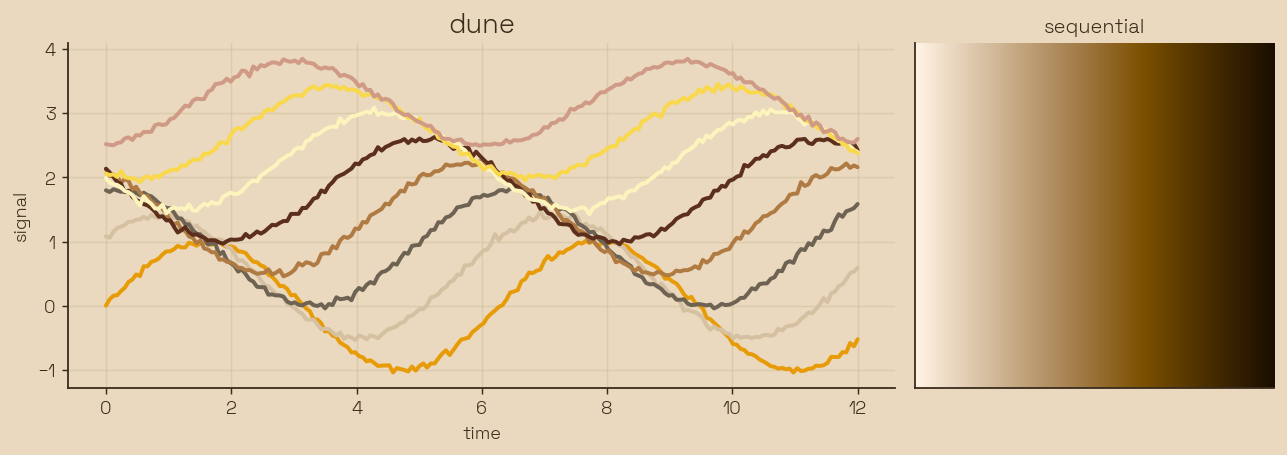
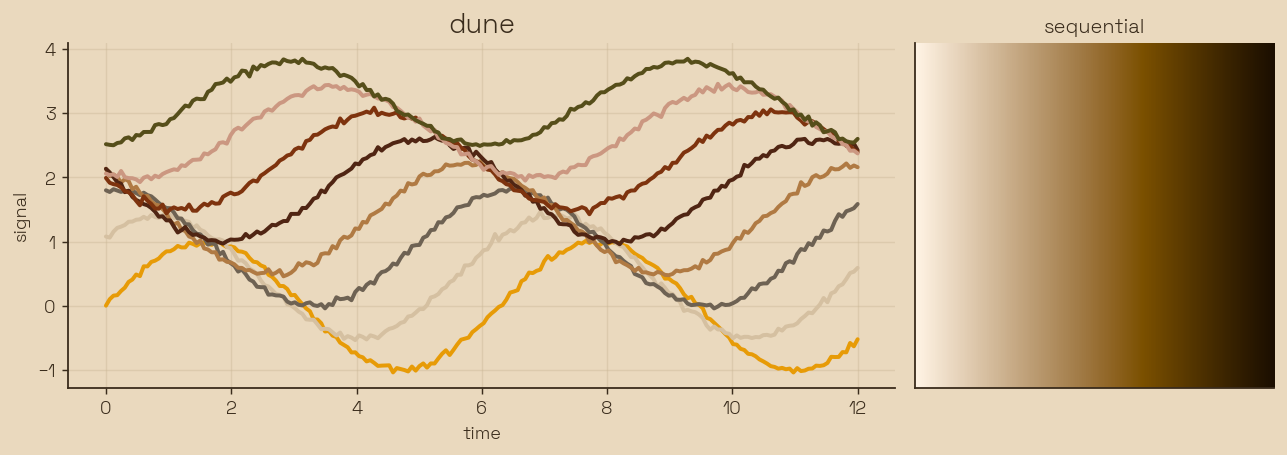
feat: add Sin City, Akira and The Fall themes
Three more sourced themes (palettes pixel-sampled from canonical stills, see docs/research/06): sin_city (B&W chiaroscuro + red/yellow spot color), akira (Kaneda red over Neo-Tokyo neon, with glow), the_fall (Tarsem's hyper-saturated jewel tones on parchment). Two engine fixes they motivated, applied to all themes: drop hue-midpoint candidates (a red+purple palette's arithmetic midpoint lands on off-mood green), and constrain extension colors to a lightness band that stays visible against the theme's own surface. 13 themes total.

diff --git a/cinestyle/registry.py b/cinestyle/registry.py
@@ -220,6 +220,55 @@ _THEME_LIST: list[Theme] = [
         film="In the Mood for Love (Wong Kar-wai)",
         note="Smoldering reds/golds against cool green; color-hex 1061098.",
     ),
+    Theme(
+        name="sin_city",
+        heroes=("#E4241C", "#F9DF28", "#97989A", "#7F7E7C", "#F6F5D7", "#000000"),
+        cycle_length=5,
+        background="#070707",
+        surface="#121212",
+        foreground="#EDEDED",
+        muted="#2A2A2A",
+        grid=False,
+        font_family="Anton",
+        seq_anchor="#E4241C",
+        div_pair=("#F9DF28", "#E4241C"),
+        look="noir_contrast",
+        film="Sin City (Rodriguez/Miller, 2005)",
+        note="B&W chiaroscuro plus red/yellow spot color; Movies In Color.",
+    ),
+    Theme(
+        name="akira",
+        heroes=("#EE272A", "#5D4E6D", "#9890A8"),
+        cycle_length=6,
+        background="#0B0610",
+        surface="#140C18",
+        foreground="#E6E2EC",
+        muted="#2D2440",
+        grid=True,
+        font_family="Orbitron",
+        glow=0.55,
+        seq_anchor="#EE272A",
+        div_pair=("#5D4E6D", "#EE272A"),
+        look="neon_night",
+        film="Akira (Otomo, 1988)",
+        note="Kaneda red over cold Neo-Tokyo night; sampled from canonical stills.",
+    ),
+    Theme(
+        name="the_fall",
+        heroes=("#D3A201", "#D81B2B", "#1C4C8C", "#6F4B29"),
+        cycle_length=6,
+        background="#F1E2BE",
+        surface="#EFDDB4",
+        foreground="#3A2410",
+        muted="#C9B488",
+        grid=True,
+        font_family="EB Garamond",
+        seq_anchor="#C8951A",
+        div_pair=("#1C4C8C", "#D81B2B"),
+        look="warm_amber",
+        film="The Fall (Tarsem, 2006)",
+        note="Hyper-saturated jewel tones on parchment; from Movies In Color.",
+    ),
 ]
 
 THEMES: dict[str, Theme] = {theme.name: theme for theme in _THEME_LIST}

diff --git a/cinestyle/color.py b/cinestyle/color.py
@@ -65,6 +65,11 @@ def _oklab_coords(color: Color) -> tuple[float, float, float]:
     return float(lab["lightness"]), float(lab["a"]), float(lab["b"])
 
 
+def lightness(color: str | Color) -> float:
+    """Return the OKLCH lightness (0..1) of *color*."""
+    return _oklch(color)[0]
+
+
 def delta_e2000(color1: str | Color, color2: str | Color) -> float:
     """Perceptual CIEDE2000 difference between two colors (0 == identical)."""
     return float(Color(color1).delta_e(Color(color2), method="2000"))
@@ -136,16 +141,16 @@ def categorical_cycle(
     # Candidate hues stay within the heroes' own hue family (a window around each
     # hero hue, plus midpoints between them) so additions keep the film's mood.
     # For a single-hue theme this means extensions separate by lightness alone.
+    # Candidate hues are sampled only in a window around each hero hue. We do NOT
+    # add midpoints between heroes: when hero hues straddle a wide gap (e.g. a
+    # red-and-purple palette), the arithmetic midpoint lands on a third,
+    # off-mood hue (green), which breaks the film's identity.
     hero_hues = [p[2] for p in profiles]
     window = 22.0
     hues: set[float] = set()
     for hue in hero_hues:
         for offset in np.linspace(-window, window, 5):
             hues.add(round((hue + offset) % 360.0, 2))
-    unique_hues = sorted({round(h, 1) for h in hero_hues})
-    for i in range(len(unique_hues)):
-        nxt = unique_hues[(i + 1) % len(unique_hues)]
-        hues.add(round(((unique_hues[i] + nxt) / 2.0) % 360.0, 2))
 
     candidates: list[Color] = []
     for light in np.linspace(lo_l, hi_l, 9):

diff --git a/cinestyle/theme.py b/cinestyle/theme.py
@@ -83,7 +83,16 @@ class Theme(RcStyle):
         """
         if self.palette_override is not None:
             return list(self.palette_override)
-        return _color.categorical_cycle(self.heroes, self.cycle_length)
+        # Constrain *added* colors to a lightness band that stays visible against
+        # the theme's surface (the sourced heroes are always kept verbatim): on a
+        # dark theme keep extensions clearly lighter than the background, and the
+        # reverse on a light theme.
+        surface_l = _color.lightness(self.surface)
+        if surface_l < 0.5:
+            band = (max(0.42, surface_l + 0.2), 0.9)  # lighter than a dark surface
+        else:
+            band = (0.32, min(0.72, surface_l - 0.1))  # darker than a light surface
+        return _color.categorical_cycle(self.heroes, self.cycle_length, lightness=band)
 
     @property
     def primary(self) -> str:

diff --git a/tests/test_themes.py b/tests/test_themes.py
@@ -16,11 +16,12 @@ def _hex(color: object) -> str:
     return to_hex(color)
 
 
-def test_ten_themes_in_catalog() -> None:
+def test_catalog_themes() -> None:
     names = list_themes()
-    assert len(names) == 10
+    assert len(names) == 13
     assert {"noir", "ghibli", "wes_anderson", "blade_runner", "star_wars"} <= set(names)
     assert {"matrix", "dune", "fury_road", "kill_bill", "in_the_mood"} <= set(names)
+    assert {"sin_city", "akira", "the_fall"} <= set(names)
 
 
 def test_get_theme_unknown_raises() -> None:
@@ -56,7 +57,7 @@ def test_theme_font_is_bundled_or_generic(name: str) -> None:
 
 def test_register_adds_styles_and_colormaps() -> None:
     names = cs.register()
-    assert len(names) == 10
+    assert len(names) == 13
     assert all(n in plt.style.available for n in names)
     assert "cinestyle:dune" in mpl.colormaps
     assert "cinestyle:dune_div" in mpl.colormaps

diff --git a/cinestyle/__init__.py b/cinestyle/__init__.py
@@ -1,6 +1,6 @@
 """cinestyle: cinematic matplotlib theming, done with color science.
 
-Ten film-inspired themes (and a brand authoring API) that are *beautiful,
+Thirteen film-inspired themes (and a brand authoring API) that are *beautiful,
 correct, and accessible*: palettes and colormaps are derived in a perceptual
 color space, bundled fonts make them reproducible, an optional glow brings the
 neon looks to life, and any palette can be checked or repaired for color-vision

diff --git a/README.md b/README.md
@@ -6,9 +6,9 @@
 [![Code style: black](https://img.shields.io/badge/code%20style-black-000000.svg)](https://github.com/psf/black)
 [![Linter: ruff](https://img.shields.io/badge/linter-ruff-261230.svg)](https://github.com/astral-sh/ruff)
 
-Cinematic matplotlib theming, done with color science. Ten film-inspired themes
-that are **beautiful, correct, and accessible** — and an API for defining your
-own brand. Same data, cinematic finish:
+Cinematic matplotlib theming, done with color science. Thirteen film-inspired
+themes that are **beautiful, correct, and accessible** — and an API for defining
+your own brand. Same data, cinematic finish:
 
 ![Before and after](images/hero_before_after.png)
 
@@ -78,6 +78,8 @@ Every image is regenerated from deterministic data by
 | ![star_wars](images/star_wars.png) | ![matrix](images/matrix.png) |
 | ![dune](images/dune.png) | ![fury_road](images/fury_road.png) |
 | ![kill_bill](images/kill_bill.png) | ![in_the_mood](images/in_the_mood.png) |
+| ![sin_city](images/sin_city.png) | ![akira](images/akira.png) |
+| ![the_fall](images/the_fall.png) | |
 
 ## The themes
 
@@ -93,6 +95,9 @@ Every image is regenerated from deterministic data by
 | `fury_road` | Mad Max: Fury Road | Anton |
 | `kill_bill` | Kill Bill | Bebas Neue |
 | `in_the_mood` | In the Mood for Love | EB Garamond |
+| `sin_city` | Sin City | Anton |
+| `akira` | Akira | Orbitron |
+| `the_fall` | The Fall (Tarsem) | EB Garamond |
 
 Each `Theme` exposes its `palette`, `sequential` and `diverging` colormaps,
 `heroes`, and chrome. `cinestyle.list_themes()` lists them all.
